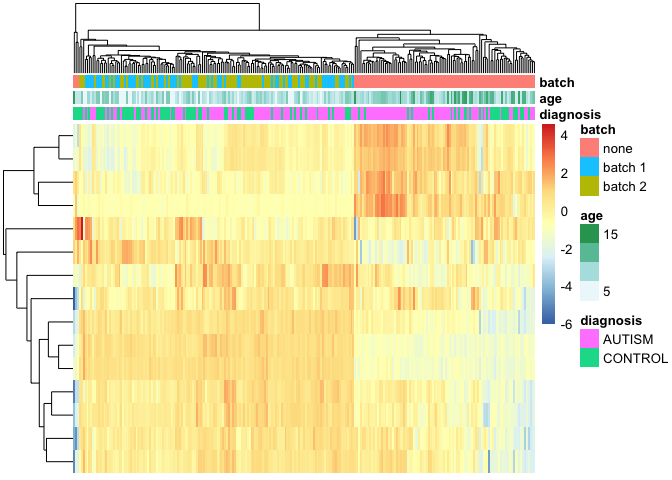
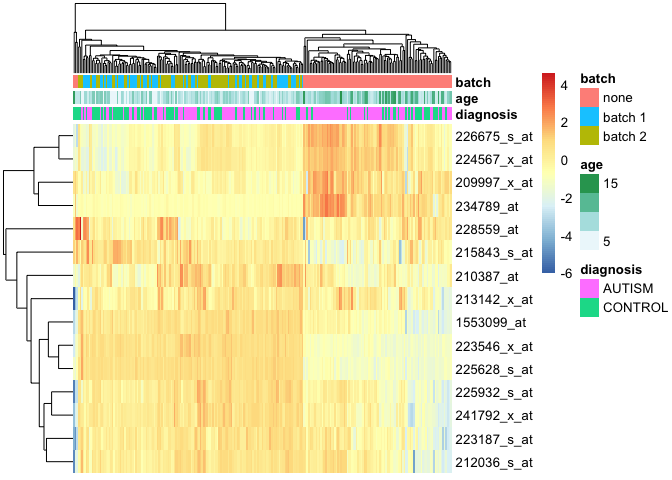
ADD row name for cluster analysis

diff --git a/code/exploratory_and_Limma_analysis.md b/code/exploratory_and_Limma_analysis.md
@@ -105,13 +105,13 @@ library(reshape2)
 library(tidyverse)
 ```
 
-    ## ── Attaching packages ─────────────────────────────────────── tidyverse 1.2.1 ──
+    ## ── Attaching packages ─────────────────────────────────────────────── tidyverse 1.2.1 ──
 
     ## ✔ tibble  2.0.1     ✔ readr   1.3.1
     ## ✔ tidyr   0.8.3     ✔ purrr   0.3.1
     ## ✔ tibble  2.0.1     ✔ forcats 0.4.0
 
-    ## ── Conflicts ────────────────────────────────────────── tidyverse_conflicts() ──
+    ## ── Conflicts ────────────────────────────────────────────────── tidyverse_conflicts() ──
     ## ✖ dplyr::arrange()    masks plyr::arrange()
     ## ✖ dplyr::combine()    masks Biobase::combine(), BiocGenerics::combine()
     ## ✖ purrr::compact()    masks plyr::compact()
@@ -574,7 +574,7 @@ We start by using clustering algorithms to cluster the top 15 genes that showed 
 ``` r
 pheatmap(top_Dat, cluster_rows = TRUE, scale = "none", clustering_method = "average", 
     clustering_distance_cols = "euclidean", clustering_distance_rows = "euclidean", 
-    annotation = Meta_data_1[,c("diagnosis", "age","batch")], show_rownames = FALSE,show_colnames  = FALSE)
+    annotation = Meta_data_1[,c("diagnosis", "age","batch")], show_rownames = TRUE,show_colnames  = FALSE)
 ```
 
 ![](exploratory_and_Limma_analysis_files/figure-markdown_github/unnamed-chunk-22-1.png)
